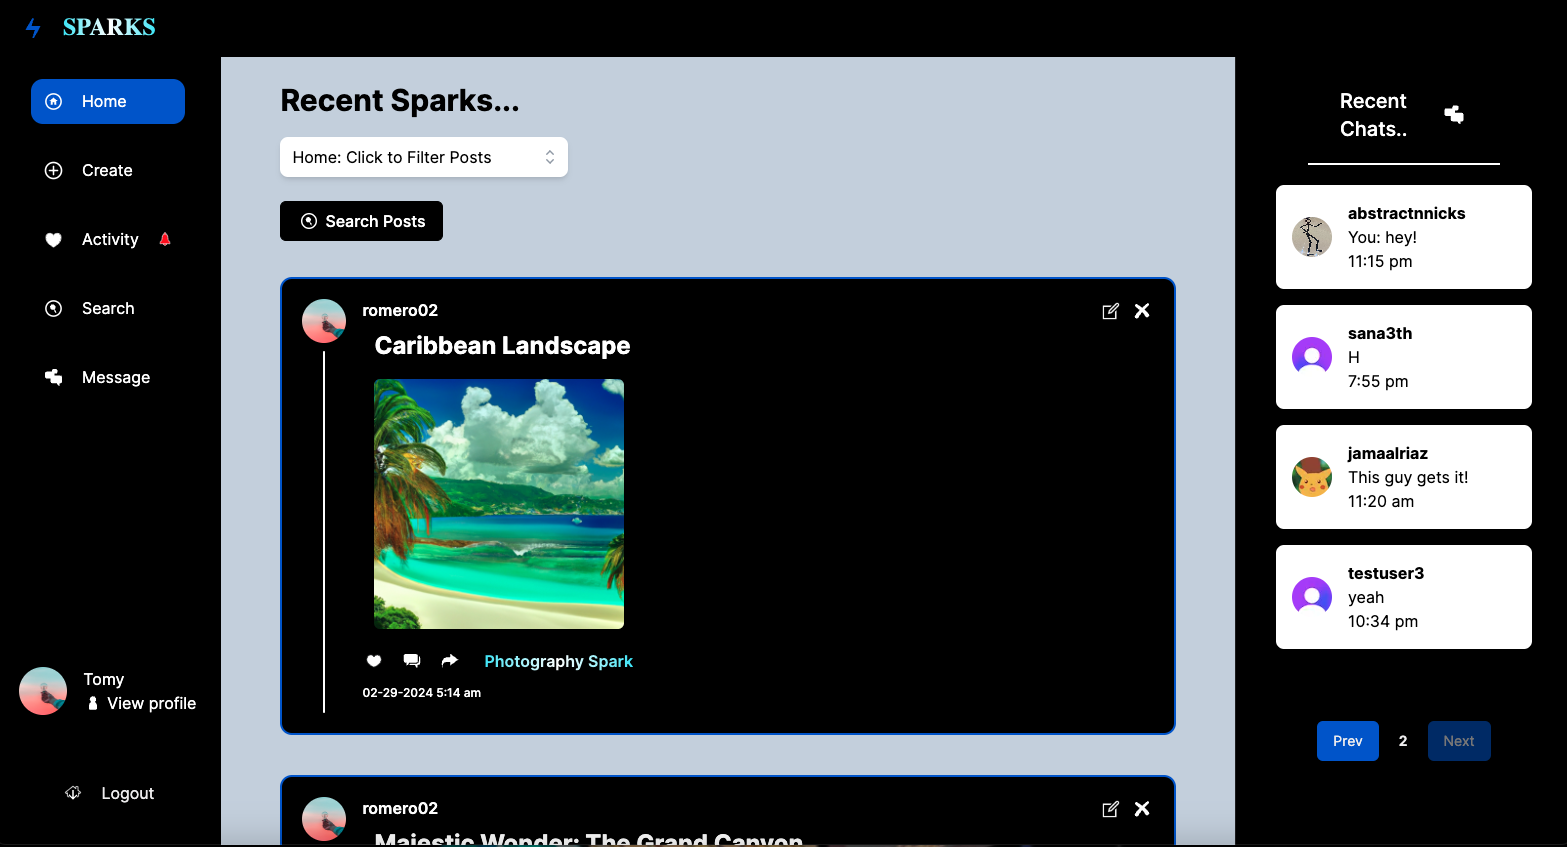
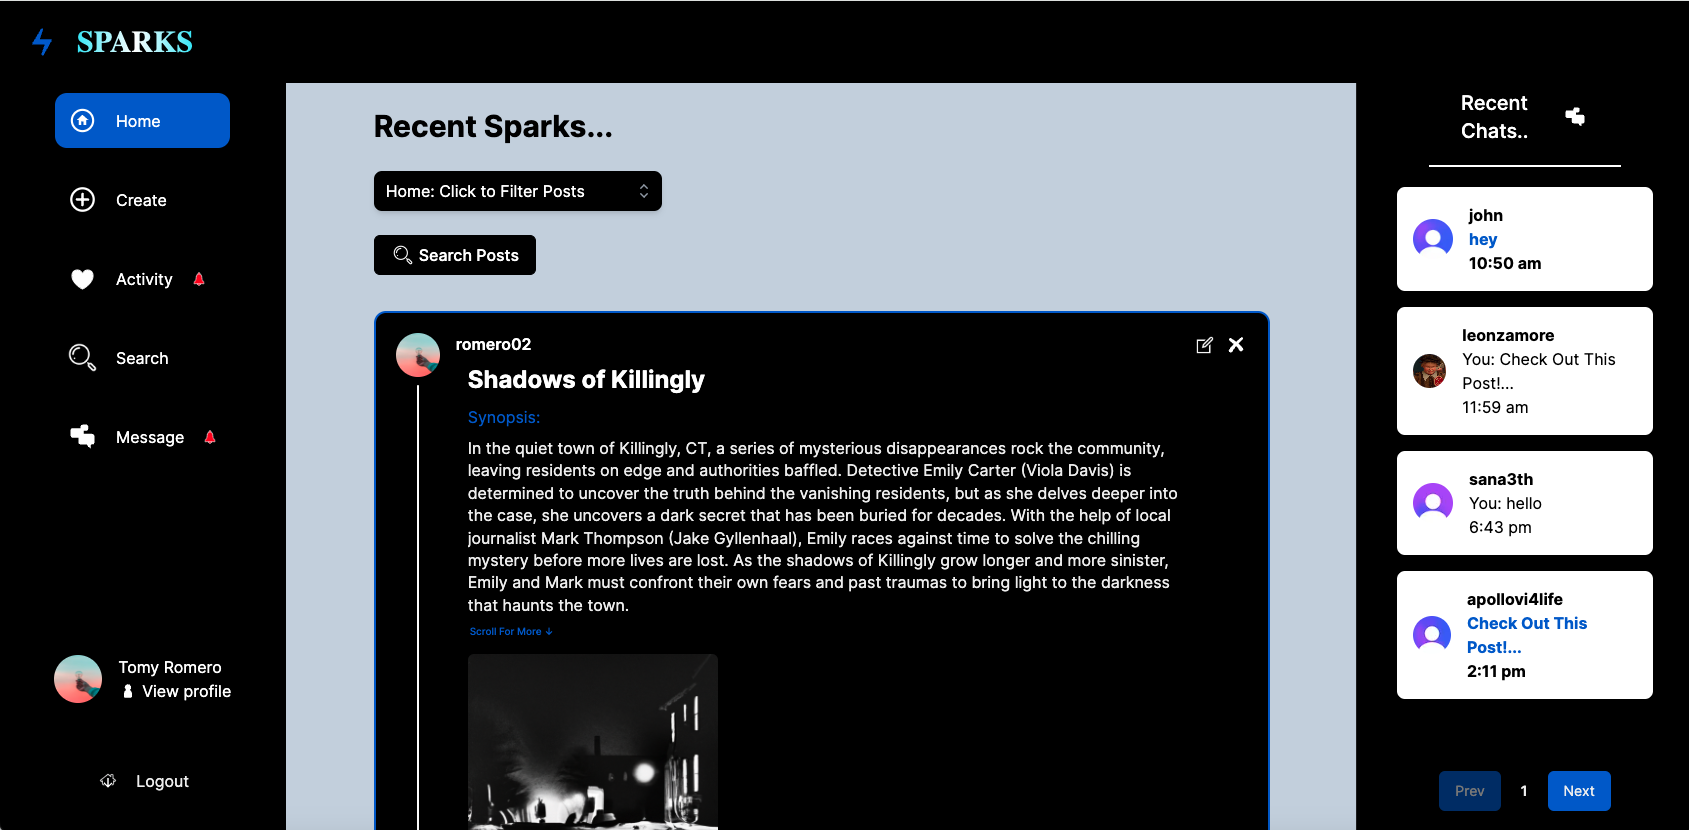
quality of life update, post liking bug fix

diff --git a/components/shared/LeftBar.tsx b/components/shared/LeftBar.tsx
@@ -100,7 +100,7 @@ function LeftSidebar({userid}: any)
 
     return(
         <section className="custom-scrollbar leftsidebar">
-            <div className="flex w-full flex-1 flex-col gap-6 px-9">
+            <div className="mt-3 flex w-full flex-1 flex-col gap-6 px-14">
                 {
                     
                     sidebarLinks.map(( link)=> {
@@ -119,15 +119,15 @@ function LeftSidebar({userid}: any)
                             <Image 
                             src={link.imgURL}
                             alt={link.label}
-                            width={25}
-                            height={25}
+                            width={35}
+                            height={35}
                             />
-                            <p className="text-light-1 max-lg:hidden">
+                            <p className="self-center text-light-1 max-lg:hidden">
                             {link.label}
                             </p>
                             {
                             messageNoti && link.label === "Message" && (
-                            <div className="pt-0.5">
+                            <div className="self-center">
                             <Image 
                                 src={"/assets/alert.svg"}
                                 alt={"alert"}
@@ -139,7 +139,7 @@ function LeftSidebar({userid}: any)
                             }
                             {
                             activityNoti && link.label === "Activity" && (
-                            <div className="pt-0.5">
+                            <div className="self-center">
                             <Image 
                                 src={"/assets/alert.svg"}
                                 alt={"alert"}

diff --git a/components/InfiniteFeed.tsx b/components/InfiniteFeed.tsx
@@ -9,7 +9,7 @@ import { Button } from './ui/button';
 
 const InfiniteFeed = ({user}: {user: string}) => {
 
-    const {title, scrollPosition, setScrollPosition} = useAppContext();
+    const {title} = useAppContext();
     const [posts, setPosts] = useState<any[]>([]);
     const [isLoading, setIsLoading] = useState(false);
     const [page, setPage] = useState(1);
@@ -64,7 +64,7 @@ const InfiniteFeed = ({user}: {user: string}) => {
         window.scrollTo(0, parseInt(storedScrollY, 10));
       }
     }, []);
-
+ 
     useEffect(() => {
       const handleBeforeUnload = () => {
         localStorage.setItem('infiniteFeedScrollPosition', window.scrollY.toString());
@@ -81,13 +81,13 @@ const InfiniteFeed = ({user}: {user: string}) => {
   return (
       <>
         <section ref={containerRef} className='mt-9 flex flex-col gap-10'>
-          {posts.length === 0 && !isLoading ? (
+          {!isLoading && posts.length === 0 ? (
             <p className='no-result'>No posts found</p>
           ) : (
             <>
               {posts.map((post: any) => (
                 <Post
-                  key={post.idpost * Math.random()}
+                  key={post.idpost}
                   id={post.idpost}
                   currentUserId={user}
                   parentId={post.parent_Id}
@@ -135,4 +135,4 @@ const InfiniteFeed = ({user}: {user: string}) => {
     );
 }
 
-export default InfiniteFeed;
+export default React.memo(InfiniteFeed);

diff --git a/components/shared/SearchButton.tsx b/components/shared/SearchButton.tsx
@@ -1,25 +1,40 @@
 "use client"
 
-import React from 'react'
+import React, { useState } from 'react'
 import { Button } from '../ui/button'
 import { useRouter } from 'next/navigation'
 import Image from 'next/image'
 
 const SearchButton = () => {
     const router = useRouter();
+    const [isHovered, setIsHovered] = useState(false);
 
   return (
     <Button className='bg-black border border-black text-white hover:bg-transparent hover:text-black' 
+    onMouseEnter={() => setIsHovered(true)}
+    onMouseLeave={() => setIsHovered(false)}
     onClick={()=> {
       router.push('/search-post')
     }}>
       <div className='flex gap-1'>
+      {isHovered ? 
+      ( 
       <Image 
-      src="/assets/search.svg"
+      src="/assets/searchblack.png"
       alt="search icon"
       width={24}
       height={24}
       />
+    )
+    : 
+    ( <Image 
+        src="/assets/search.png"
+        alt="search icon"
+        width={24}
+        height={24}
+    />
+    )
+    }
       Search Posts
       </div>
     </Button>

diff --git a/components/shared/FilterBox.tsx b/components/shared/FilterBox.tsx
@@ -113,7 +113,7 @@ const FilterBox = ()=> {
     <div className=" w-72">
       <Listbox value={selected} onChange={setSelected}>
         <div className="relative mt-1">
-          <Listbox.Button className="relative w-full cursor-default rounded-lg bg-white py-2 pl-3 pr-10 text-left z-20 shadow-md focus:outline-none focus-visible:border-indigo-500 focus-visible:ring-2 focus-visible:ring-white/75 focus-visible:ring-offset-2 focus-visible:ring-offset-orange-300 sm:text-sm">
+          <Listbox.Button className="text-white relative w-full cursor-pointer rounded-lg bg-black py-2 pl-3 pr-10 text-left z-20 shadow-md focus:outline-none focus-visible:border-indigo-500 focus-visible:ring-2 focus-visible:ring-white/75 focus-visible:ring-offset-2 focus-visible:ring-offset-orange-300 sm:text-sm">
             <span className="block truncate">{selected.name}</span>
             <span className="pointer-events-none absolute inset-y-0 right-0 flex items-center pr-2">
               <ChevronUpDownIcon

diff --git a/lib/AppContext.tsx b/lib/AppContext.tsx
@@ -34,8 +34,6 @@ type AppContextProps = {
   activityNoti: any;
   setActivityNoti: React.Dispatch<React.SetStateAction<any>>;
 
-  scrollPosition: any;
-  setScrollPosition: React.Dispatch<React.SetStateAction<any>>;
 };
 
 // Create the AppContext with an initial value of undefined
@@ -67,9 +65,6 @@ export const AppProvider: React.FC<{ children: ReactNode }> = ({ children }) => 
 
   //For global activity notifcation
   const [activityNoti, setActivityNoti] = useState(false);
-
-  //For scroll position
-  const [scrollPosition, setScrollPosition] = useState(0);
 
   //Client Pusher Instance Logic
   const pusher = pusherClient;
@@ -110,7 +105,6 @@ export const AppProvider: React.FC<{ children: ReactNode }> = ({ children }) => 
     setTitle, title,
     messageNoti, setMessageNoti,
     activityNoti, setActivityNoti,
-    scrollPosition, setScrollPosition
   };
 
   // Set up event listeners for user activity (adjust as needed based on your application)

diff --git a/app/(root)/chat/page.tsx b/app/(root)/chat/page.tsx
@@ -48,7 +48,7 @@ async function Page({
   }
   
   return (
-    <section className='w-full flex flex-1 flex-col bg-black rounded-xl h-max-screen'>
+    <section className='max-sm:-mt-6 w-full flex flex-1 flex-col bg-black rounded-xl h-max-screen'>
       <div className="flex">
         <h1 className='text-heading1-bold text-light-1 ml-4 mt-2'>Chat</h1>
         <Image 
@@ -61,7 +61,7 @@ async function Page({
       </div>
       <div className="w-11/12 mx-auto m-1 p-1 border-b-2 border-white" />
 
-      <div className="p-4">
+      <div className="p-2 max-sm:p-0.5">
         <Searchbar routeType='chat' />
       </div>
 
@@ -74,7 +74,7 @@ async function Page({
       </div>
 
       <br></br>
-      <h2 className="text-left ml-4 text-heading3-bold text-light-1">Recent Chats..</h2>
+      <h2 className="text-left ml-4 text-heading3-bold max-sm:text-heading4-medium text-light-1">Recent Chats..</h2>
      <Chatbox chats= {chats}/>
   </section>
 );

diff --git a/components/shared/TopBar.tsx b/components/shared/TopBar.tsx
@@ -42,10 +42,10 @@ function Topbar({ userId } : any)
             <Link href="/" className="flex items-center gap-4">
              <Image src="/assets/logo.svg"
              alt="logo"
-             width={28}
-             height={28}
+             width={38}
+             height={38}
              />
-            <p className="font-agbalumo text-heading3-bold"><span className="teal_gradient">SPARKS</span></p>
+            <p className="font-agbalumo text-heading2-bold"><span className="teal_gradient">SPARKS</span></p>
             </Link>
 
             <div className={`md:hidden lg:hidden xl:hidden flex ml-auto hover:bg-primary-500 rounded-lg p-1 mr-2 ${isActive() ? 'bg-primary-500 ' : ''}`}>

diff --git a/components/shared/Searchbar.tsx b/components/shared/Searchbar.tsx
@@ -31,10 +31,10 @@ function Searchbar({ routeType }: Props) {
   return (
     <div className='searchbar'>
       <Image
-        src='/assets/search.svg'
+        src='/assets/search.png'
         alt='search'
-        width={24}
-        height={24}
+        width={40}
+        height={40}
         className='object-contain'
       />
       <Input
@@ -42,7 +42,7 @@ function Searchbar({ routeType }: Props) {
         value={search}
         onChange={(e) => setSearch(e.target.value)}
         placeholder={`Start Typing To Begin Searching`}
-        className='no-focus searchbar_input'
+        className='searchbar_input'
       />
     </div>
   );

diff --git a/constants/index.ts b/constants/index.ts
@@ -15,7 +15,7 @@ export const sidebarLinks = [
       label: "Activity",
     },
     {
-      imgURL: "/assets/search.svg",
+      imgURL: "/assets/search.png",
       route: "/search",
       label: "Search",
     },
@@ -43,7 +43,7 @@ export const sidebarLinks = [
       label: "Activity",
     },
     {
-      imgURL: "/assets/search.svg",
+      imgURL: "/assets/search.png",
       route: "/search",
       label: "Search",
     },

diff --git a/app/(root)/layout.tsx b/app/(root)/layout.tsx
@@ -51,7 +51,7 @@ export default async function RootLayout({
           <main className='flex flex-row'>
             <LeftSidebar userid={userid} /> 
             <section className='main-container'>
-              <div className='w-full max-w-4xl'>{children}</div>
+              <div className='w-full max-w-4xl mt-6'>{children}</div>
             </section>
             <RightBar userid={userid}/>
           </main>

diff --git a/components/forms/DeletePost.tsx b/components/forms/DeletePost.tsx
@@ -62,9 +62,9 @@ const handleDelete = async () => {
     <Image
       src='/assets/delete.svg'
       alt='delete'
-      width={24}
-      height={24}
-      className='cursor-pointer object-contain'
+      width={32}
+      height={32}
+      className='cursor-pointer object-contain transition-transform duration-300 transform hover:scale-110'
       onClick={handleDelete}
     />
   );

diff --git a/components/cards/Post.tsx b/components/cards/Post.tsx
@@ -363,8 +363,9 @@ function Post({
           <Image 
           src="/assets/edit.png"
           alt="edit icon"
-          width={22}
-          height={22}
+          width={30}
+          height={30}
+          className="transition-transform duration-300 transform hover:scale-110"
           />
           </button>     
         
